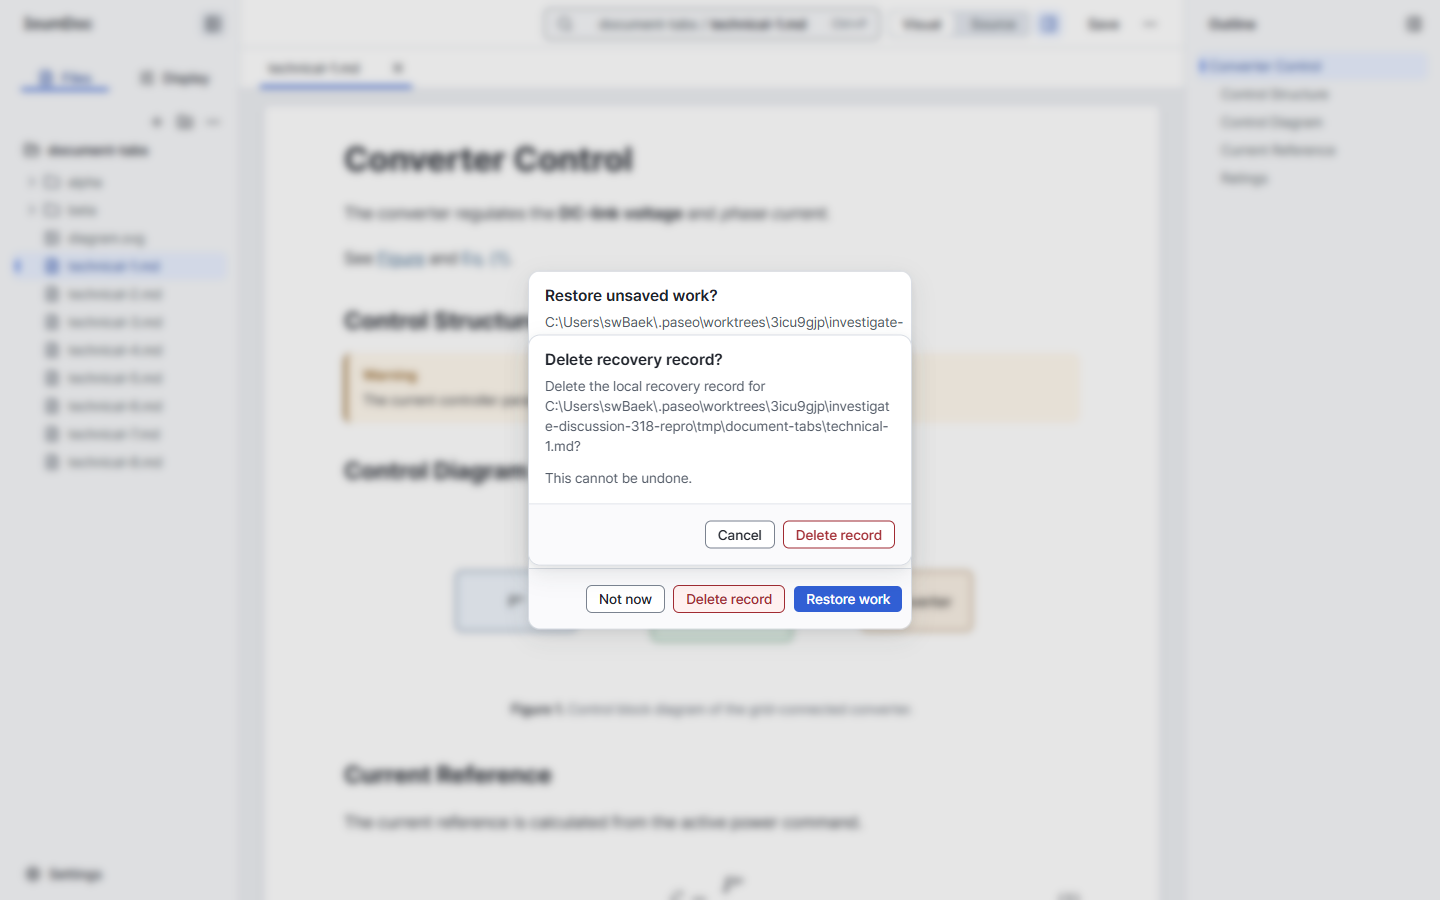
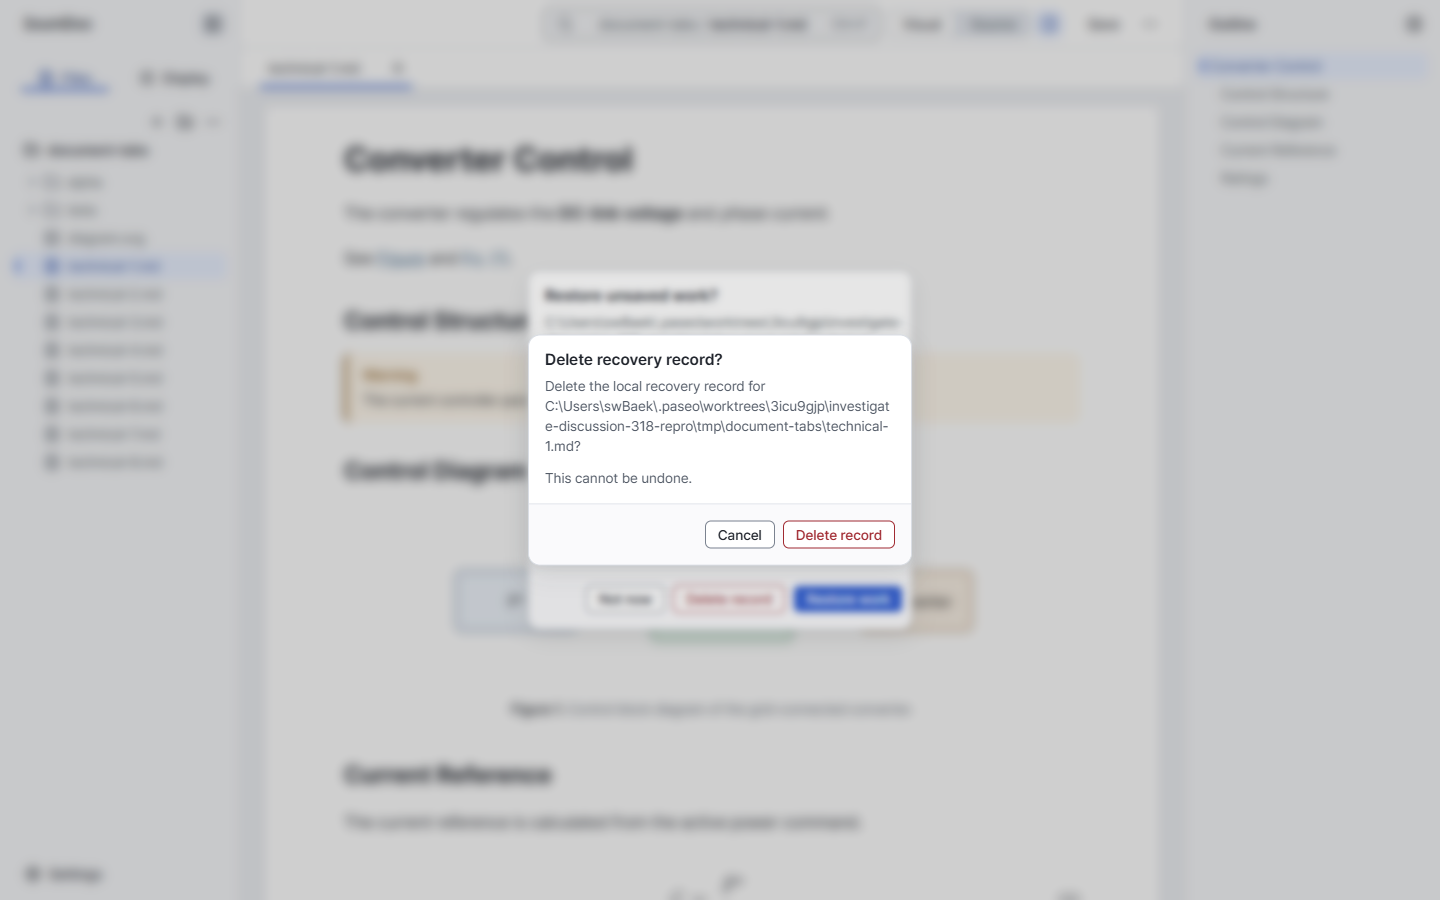
Document nested recovery confirmation verification
Refresh deletion captures after the nested backdrop fix and master merge.
Record capture HEAD, viewport, DPR/zoom and bundled font environment while
preserving previous verification entries and the existing parent layout.

Refs #382

AI-Agent: Codex
AI-Model: openai/gpt-6.1-sol

diff --git a/docs/design/editor-visual-language-v1.md b/docs/design/editor-visual-language-v1.md
@@ -1,7 +1,8 @@
 # Editor Visual Language — Quiet Document
 
 - Status: Implemented
-- Last verified: 2026-10-23 (#363 command center; Editor tests, typecheck/build, command-center/editor-shell/document-tabs/ui-language/layout-rules/quiet-document browser checks; [actual captures](editor-ux-shell-v1.md#command-center-verification-363)).
+- Last verified: 2026-10-24 (#382 / #391 review: recovery deletion confirmations, nested backdrop outside dismissal/pending guards; refreshed 1440/375px English/Korean [captures and environment](editing-session-save-v1.md#local-recovery-records-296-pr2)).
+- Previous verification: 2026-10-23 (#363 command center; Editor tests, typecheck/build, command-center/editor-shell/document-tabs/ui-language/layout-rules/quiet-document browser checks; [actual captures](editor-ux-shell-v1.md#command-center-verification-363)).
 - Previous verification: 2026-10-23 (#265 citation form reusing the reference form surface and existing tokens; [verification and captures](citations-v1.md#unit-c-verification-265)).
 - Previous verification: 2026-10-22 (#265 derived References with existing type/spacing tokens; [verification and captures](citations-v1.md#unit-b-verification-265)).
 - Previous verification: 2026-10-22 (#217: all-file Sidebar listing, bounded read-only image preview; Host/Editor/Desktop protocol tests and actual Vite/production HTTP browser regressions).
@@ -160,7 +161,7 @@ Values meant to be tuned by hand, or that change with a user's taste, are shared
 
 ## Responsibility boundaries
 
-Recovery uses the existing start-screen section/label/text roles and compact secondary Review action, with wrapping names/paths and dates. The empty state is plain explanatory text. Restore/incompatible prompts use the shared Dialog, primary Restore, destructive Delete and secondary Not now (initial focus), a selectable plaintext disclosure, and existing stacked narrow-screen footer. Settings uses its existing section rhythm; Clear all has an explicit inline confirmation. Failures use a standing MessageArea warning, not an expiring notice. There is no start-screen redesign or new theme.
+Recovery uses the existing start-screen section/label/text roles and compact secondary Review action, with wrapping names/paths and dates. The empty state is plain explanatory text. Restore/incompatible prompts use the shared Dialog, primary Restore, destructive Delete and secondary Not now (initial focus), a selectable plaintext disclosure, and existing stacked narrow-screen footer. Settings uses its existing section rhythm; Clear all uses the shared deletion confirmation Dialog. Failures use a standing MessageArea warning, not an expiring notice. There is no start-screen redesign or new theme.
 
 Shared Settings/Local recovery and Desktop About reuse the existing dialog, Button and Notice components and product spacing/type/surface tokens. The Sidebar footer uses the existing compact ghost target; the native channel radios and progress use the interaction color. Status is plain text and actions wrap within the dialog. Update notices use the existing information surface with View/Restart and Later actions. No new visual theme or document state is introduced. [Desktop contract](desktop-distribution-v1.md) owns the behavior.
 

diff --git a/docs/design/editing-session-save-v1.md b/docs/design/editing-session-save-v1.md
@@ -1,7 +1,8 @@
 # Editing session and Save v1
 
 - Status: Implemented
-- Last verified: 2026-10-24 (#382: explicit record/all-record deletion confirmations; Editor tests, typecheck/build and recovery browser checks including cancellation/focus and Korean/English 1440/375px captures).
+- Last verified: 2026-10-24 (#391 review: nested outside-click dismissal and pending guards, refreshed captures with environment metadata; final validation recorded in the PR).
+- Previous verification: 2026-10-24 (#382: explicit record/all-record deletion confirmations; Editor tests, typecheck/build and recovery browser checks including cancellation/focus and Korean/English 1440/375px captures).
 - Previous verification: 2026-10-23 (Save shortcut recovery summary reconciled with the Host persistence verification below; documentation comparison only).
 - Previous verification: 2026-10-22 (#331: actual engine-created deletion sentinel, structured Vite New/Reload/Restore/Save and Windows production HTTP crash/Restore/Save/Reload/conflict; readable fallback and open-dialog Korean/English reason changes).
 - Previous verification: 2026-10-16 (#296 PR3: actual Windows packaged Desktop and production HTTP/Chrome process termination, same-profile restart, restore, Save/Reload and external-conflict preservation; Desktop normal close and pending Figure. Linux HTTP remains a required CI check).
@@ -163,8 +164,20 @@ with the new confirmation open (the former immediate-delete behavior had no conf
 [confirmation at 375px](assets/recovery-382/delete-confirm-375.png),
 [Korean confirmation at 375px](assets/recovery-382/delete-confirm-ko-375.png),
 [Clear all at 375px](assets/recovery-382/clear-confirm-375.png).
+Capture refresh for the #391 review: product/test HEAD
+`b46c13d0f85ca4cddc9e4afe361eabc1b7ce61b1` (latest master merged), Windows Chrome,
+checkout-owned persistent profile, Vite `http://127.0.0.1:5173`, 1440×900 and 375×900,
+DPR 1 / 100% zoom, scroll top, the same recovery record before deletion and with the
+confirmation open. Korean capture changes only the UI language while that dialog stays open.
+Bundled Pretendard Variable 1.3.9 and the existing product font stack are unchanged;
+each capture waits for `document.fonts.ready`. The nested confirmation now has its own
+Base UI backdrop, dimming/blurring the parent while keeping only the top dialog interactive.
+The pre-existing narrow parent recovery-review clipping is outside this change.
+
 The recovery scenario checks confirmed deletion, Cancel/Escape preservation and focus return,
-all-record cancellation, live Korean/English target and warning text, and popup content bounds.
+all-record cancellation, outside-click dismissal of only the top confirmation at both entry points,
+pending outside-click refusal at both entry points, live Korean/English target and warning text,
+and popup content bounds.
 
 The start screen lists records newest first, with document name/path/time and **Review recovery**.
 Opening a matching document proposes the latest record. **Not now** keeps it. **Restore work**
